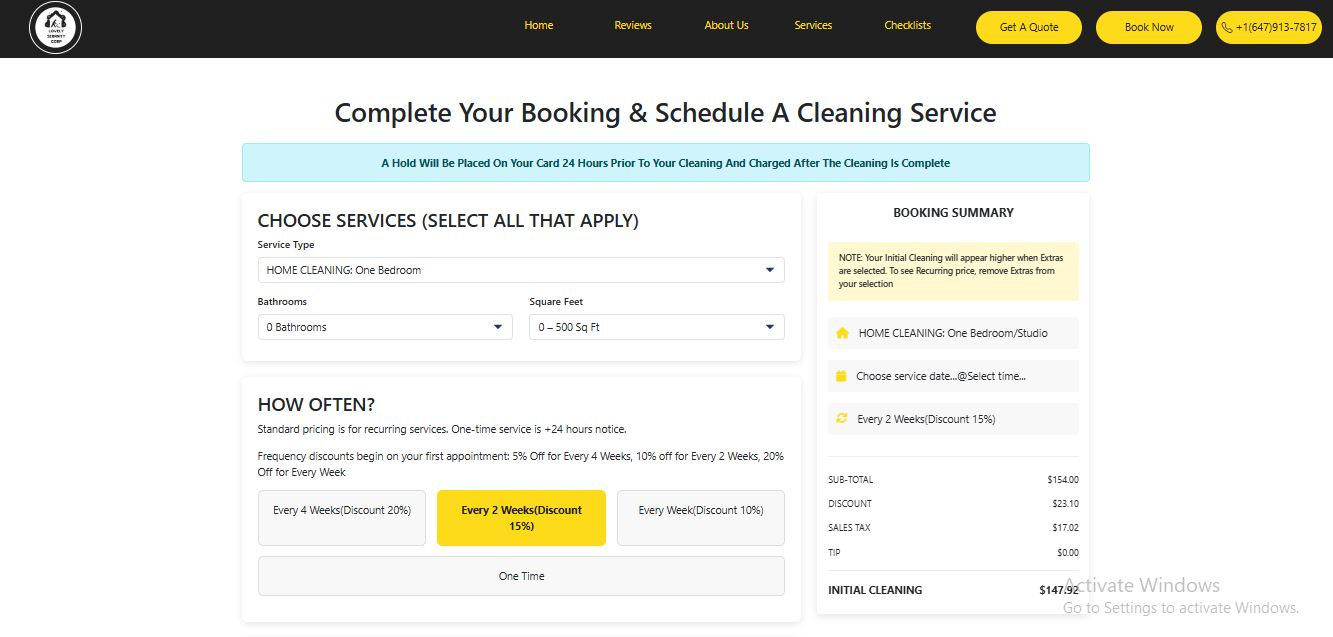
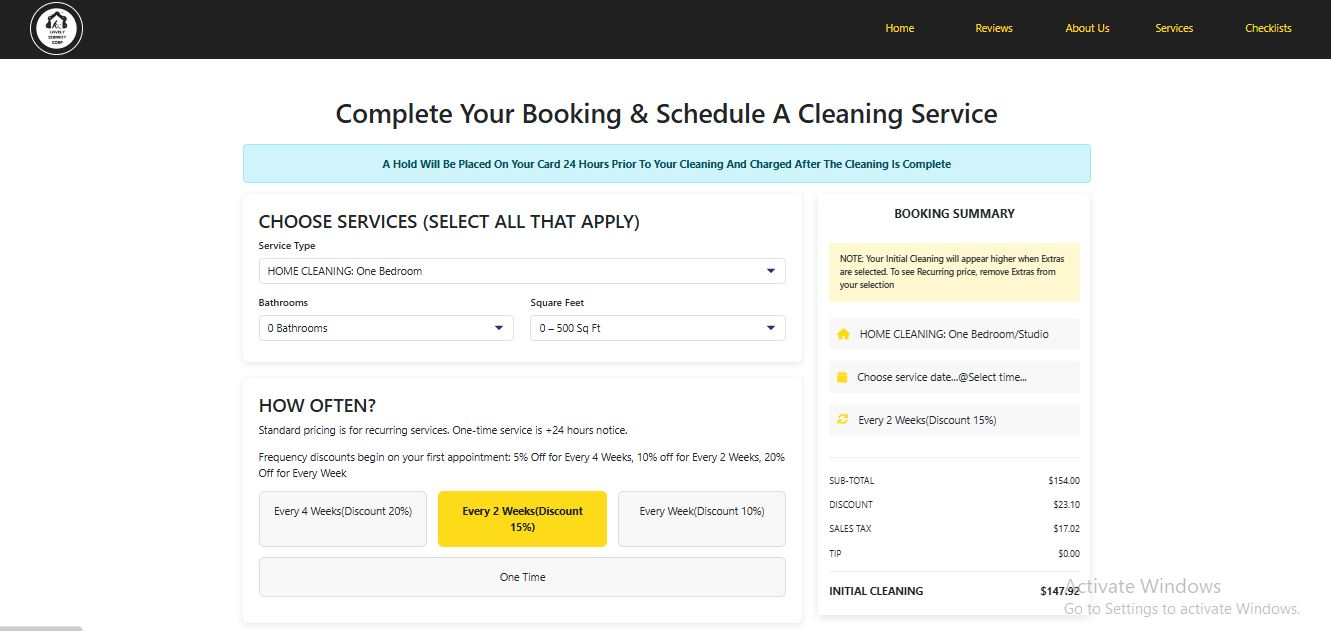
modified Navbar

diff --git a/frontend/src/views/Navbar.js b/frontend/src/views/Navbar.js
@@ -132,7 +132,6 @@ function Navbar() {
                                 </a>
                             </li>
                             
-                            {/* Modified Services link to fix the error */}
                             <li className="nav-item" onMouseEnter={() => handleMouseEnter(4)} onMouseLeave={handleMouseLeave}>
                                 <a
                                     className="nav-link"
@@ -156,6 +155,9 @@ function Navbar() {
                                     Checklists
                                 </a>
                             </li>
+                            {/* Only show mobile buttons container if not on booking page */}
+                    {!isBookingPage && (
+                        <>
                             <li className="nav-item cta-desktop">
                                 <button id='estimation' onClick={() => setIsPopupOpen(true)} className="open-btn">Get A Quote</button>
                             </li>
@@ -171,6 +173,7 @@ function Navbar() {
                                     </button>
                                 </a>
                             </li>
+                            </>)}
                         </ul>
                     </div>
 

diff --git a/frontend/src/views/Homepage.css b/frontend/src/views/Homepage.css
@@ -1,7 +1,7 @@
 /* Base styles and resets */
 .homepage-container {
     
-    width: 103.65vw;
+    width: 101.8vw;
     overflow-x: hidden;
     margin-left: -23.5vh;
     padding: 0;

diff --git a/frontend/src/views/Navbar.css b/frontend/src/views/Navbar.css
@@ -17,7 +17,7 @@
 
 .navbar-brand img {
     width: 80px;
-    margin-left: 40px;
+    margin-left: 0px;
     padding: 8px;
     border-radius: 50%;
     border: 2px solid #fff;
